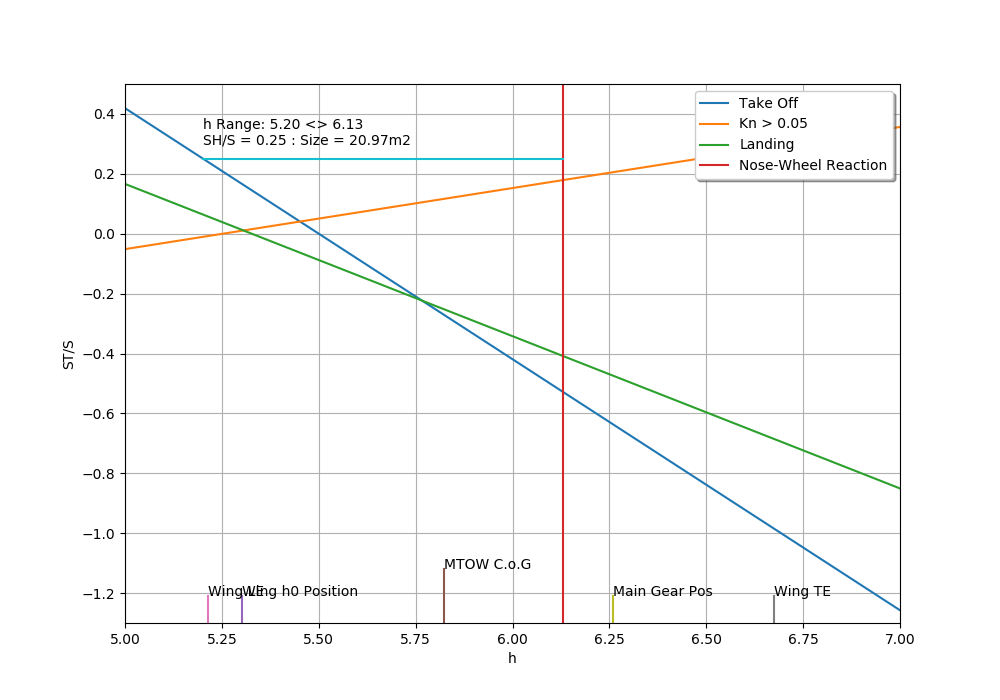
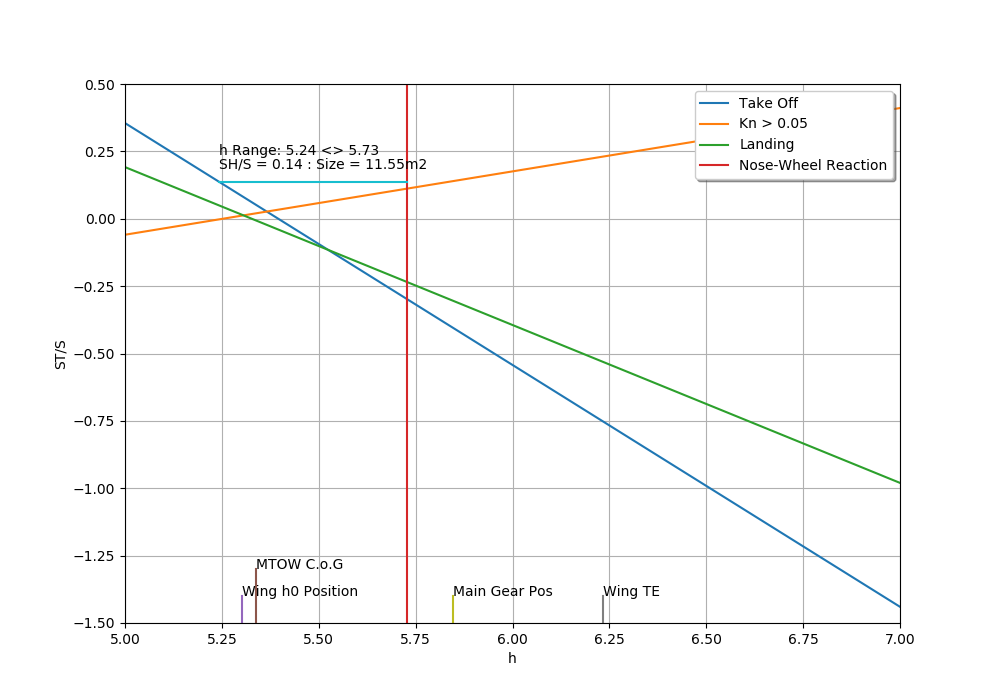
Update c_bar and mtow values to be from excel

diff --git a/scissorplot.py b/scissorplot.py
@@ -52,7 +52,7 @@ def myfloor(x, base):
 
 
 # Key Aircraft Params
-c_bar = np.mean([params['Ct'], params['Cr']])
+c_bar = cad_file['Interface']['B53'].value
 maxthrust = 44459 * 2  # N @ takoff
 vto = 62.4  # m/s
 cthrust = maxthrust / qS(vto)
@@ -63,7 +63,8 @@ mtow = 35590  # kg
 g = 9.81  # m/s/s
 h0 = cad_file['Interface']['B54'].value
 print("h0 = " + str(h0))
-mtow_pos = (14.436+0.364)/c_bar  # Approx P2B mtow pos from GA
+mtow_pos_m = cad_file['Interface']['F16'].value
+mtow_pos = mtow_pos_m/c_bar  # From Mass CG File
 lvtp_cad_value = cad_params["M162"].value
 engine_vcg_dist = cad_file['Interface']['F15'].value
 
@@ -255,7 +256,7 @@ def plotit(r1, r2):
     the other via known fwd and aft positions"""
     # Known Delta h range
     #size = size_finder_delta(x_h, takeOffRotation(x_h), [kn(x_h)], [noseWheel()], 0.4)
-    size = size_finder_range(x_h, takeOffRotation(x_h), [kn(x_h)], [noseWheel()], h_finder_from_mac(0.15), h_finder_from_mac(0.43))
+    size = size_finder_range(x_h, takeOffRotation(x_h), [kn(x_h)], [noseWheel()], h_finder_from_mac(0.19), h_finder_from_mac(0.47))
     plt.plot([size[0], size[1]], [size[2], size[2]])
     plt.annotate("SH/S = " + str(format(size[2], '.2f')) + " : Size = " + str(format(size[2]*params['Sarea'], '.2f')) + "m2", [size[0], size[2]+0.05])
     plt.annotate("h Range: " + str(format(size[0], '.2f')) + " <> " + str(format(size[1], '.2f')), [size[0], size[2]+0.1])
